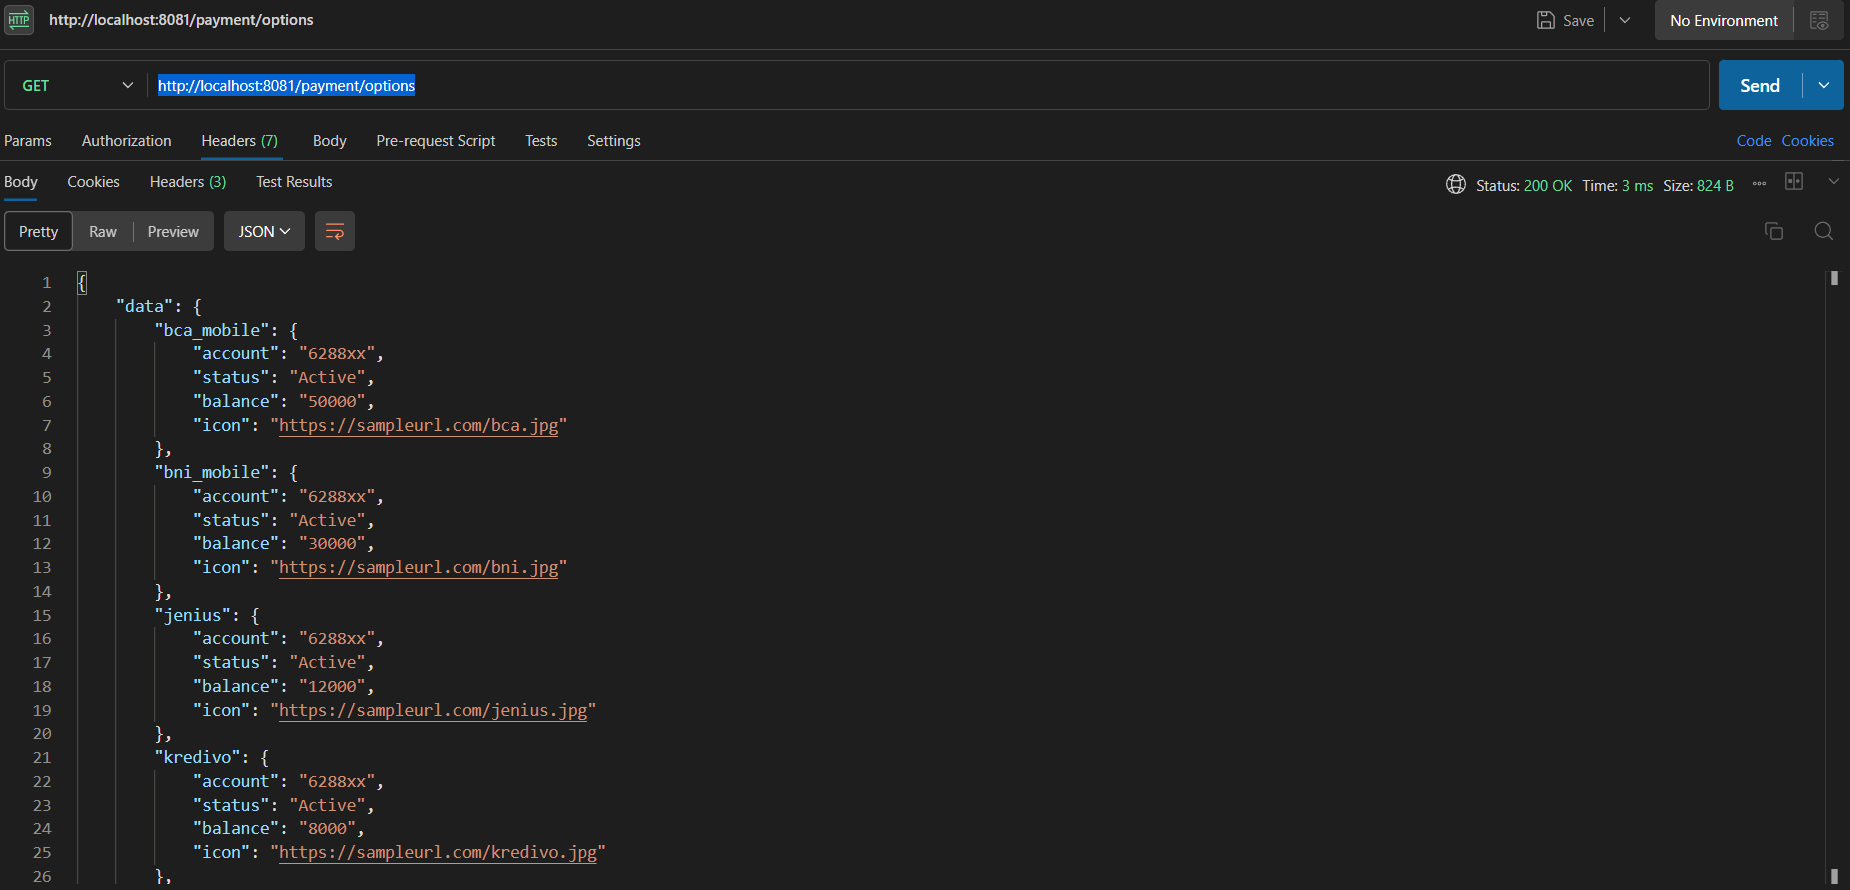
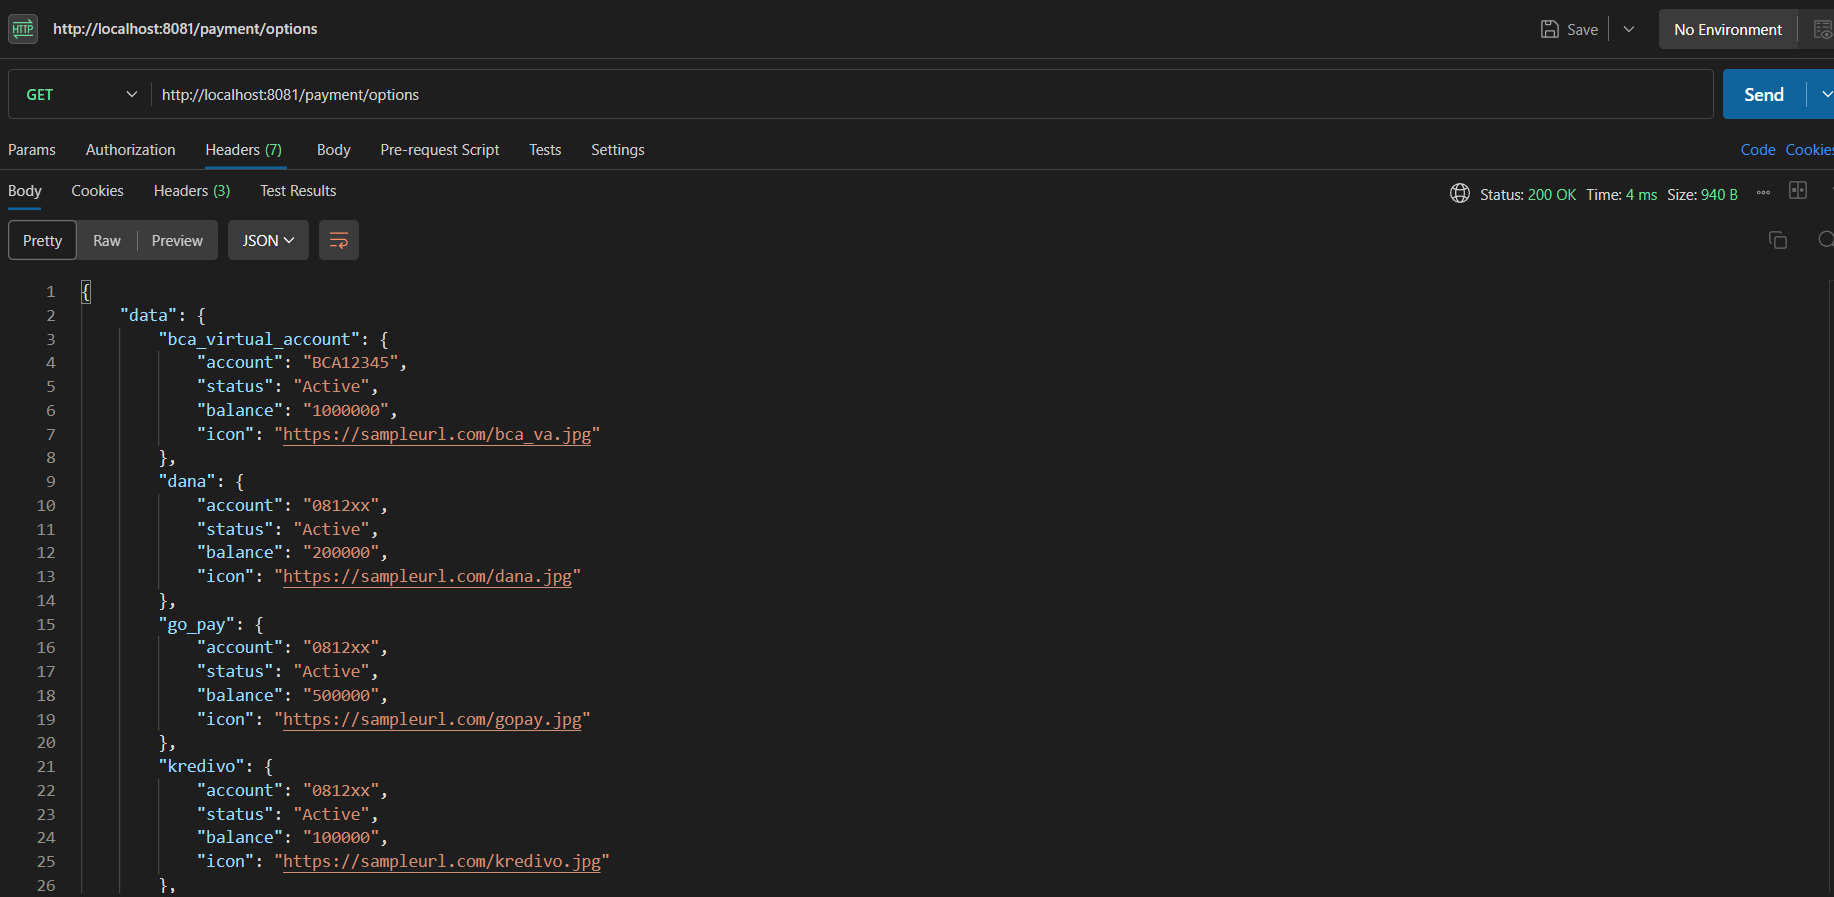
first commit

diff --git a/internal/repository/payment_repository_impl.go b/internal/repository/payment_repository_impl.go
@@ -11,57 +11,65 @@ func NewPaymentRepo() PaymentRepository {
 	return &paymentRepo{}
 }
 
-func (r *paymentRepo) CallBCAMobile() models.PaymentMethod {
-	// time.Sleep(2 * time.Second) // Simulate network delay
+func (r *paymentRepo) CallGoPay() models.PaymentMethod {
 	return models.PaymentMethod{
-		Account: "6288xx",
+		Account: "0812xx",
 		Status:  "Active",
-		Balance: "50000",
-		Icon:    "https://sampleurl.com/bca.jpg",
+		Balance: "500000", 
+		Icon:    "https://sampleurl.com/gopay.jpg",
+	}
+}
+
+func (r *paymentRepo) CallOVO() models.PaymentMethod {
+	return models.PaymentMethod{
+		Account: "0812xx",
+		Status:  "Active", 
+		Balance: "300000",
+		Icon:    "https://sampleurl.com/ovo.jpg",
+	}
+}
+
+func (r *paymentRepo) CallDANA() models.PaymentMethod {
+	return models.PaymentMethod{
+		Account: "0812xx",
+		Status:  "Active",
+		Balance: "200000", 
+		Icon:    "https://sampleurl.com/dana.jpg",
 	}
 }
 
 func (r *paymentRepo) CallLinkAja() models.PaymentMethod {
 	return models.PaymentMethod{
-		Account: "6288xx",
-		Status:  "Active",
-		Balance: "20000",
+		Account: "0812xx", 
+		Status:  "Active", 
+		Balance: "150000", 
 		Icon:    "https://sampleurl.com/linkaja.jpg",
-	}
-}
-
-func (r *paymentRepo) CallBNIMobile() models.PaymentMethod {
-	return models.PaymentMethod{
-		Account: "6288xx",
-		Status:  "Active",
-		Balance: "30000",
-		Icon:    "https://sampleurl.com/bni.jpg",
-	}
-}
-
-func (r *paymentRepo) CallMandiriOnline() models.PaymentMethod {
-	return models.PaymentMethod{
-		Account: "6288xx",
-		Status:  "Active",
-		Balance: "45000",
-		Icon:    "https://sampleurl.com/mandiri.jpg",
 	}
 }
 
 func (r *paymentRepo) CallKredivo() models.PaymentMethod {
 	return models.PaymentMethod{
-		Account: "6288xx",
-		Status:  "Active",
-		Balance: "8000",
+		Account: "0812xx",
+		Status:  "Active", 
+		Balance: "100000",   
 		Icon:    "https://sampleurl.com/kredivo.jpg",
 	}
 }
 
-func (r *paymentRepo) CallJenius() models.PaymentMethod {
+func (r *paymentRepo) CallShopeePay() models.PaymentMethod {
 	return models.PaymentMethod{
-		Account: "6288xx",
-		Status:  "Active",
-		Balance: "12000",
-		Icon:    "https://sampleurl.com/jenius.jpg",
+		Account: "0812xx",  
+		Status:  "Active",  
+		Balance: "250000",  
+		Icon:    "https://sampleurl.com/shopeepay.jpg", 
+	}
+}
+
+func (r *paymentRepo) CallVirtualAccountBCA() models.PaymentMethod {
+	return models.PaymentMethod{
+		Account: "BCA12345", 
+		Status:  "Active", 
+		Balance: "1000000", 
+		Icon:    "https://sampleurl.com/bca_va.jpg",
 	}
 }

diff --git a/internal/usecase/payment_usecase_impl.go b/internal/usecase/payment_usecase_impl.go
@@ -15,14 +15,15 @@ func NewPaymentUsecase(r repository.PaymentRepository) PaymentUsecase {
 }
 
 func (u *paymentUsecase) GetPaymentOptions() (map[string]models.PaymentMethod, error) {
-		result := make(map[string]models.PaymentMethod)
-		result["bca_mobile"] = u.repo.CallBCAMobile()
-		result["linkaja"] = u.repo.CallLinkAja()
-		result["bni_mobile"] = u.repo.CallBNIMobile()
-		result["mandiri_online"] = u.repo.CallMandiriOnline()
-		result["kredivo"] = u.repo.CallKredivo()
-		result["jenius"] = u.repo.CallJenius()
-		return result, nil
+	result := make(map[string]models.PaymentMethod)
+	result["go_pay"] = u.repo.CallGoPay()         
+	result["ovo"] = u.repo.CallOVO()            
+	result["dana"] = u.repo.CallDANA()           
+	result["linkaja"] = u.repo.CallLinkAja()     
+	result["kredivo"] = u.repo.CallKredivo()     
+	result["shopeepay"] = u.repo.CallShopeePay() 
+	result["bca_virtual_account"] = u.repo.CallVirtualAccountBCA() 
+	return result, nil
 }
 
 func (u *paymentUsecase) GetPaymentOptions22() (map[string]models.PaymentMethod, error) {
@@ -30,47 +31,54 @@ func (u *paymentUsecase) GetPaymentOptions22() (map[string]models.PaymentMethod,
 	result := make(map[string]models.PaymentMethod)
 	mu := sync.Mutex{}
 
-	wg.Add(6)
+	wg.Add(7)
 
 	go func() {
 		defer wg.Done()
 		mu.Lock()
-		result["bca_mobile"] = u.repo.CallBCAMobile()
+		result["go_pay"] = u.repo.CallGoPay()         
 		mu.Unlock()
 	}()
 
 	go func() {
 		defer wg.Done()
 		mu.Lock()
-		result["linkaja"] = u.repo.CallLinkAja()
+		result["ovo"] = u.repo.CallOVO()             
 		mu.Unlock()
 	}()
 
 	go func() {
 		defer wg.Done()
 		mu.Lock()
-		result["bni_mobile"] = u.repo.CallBNIMobile()
+		result["dana"] = u.repo.CallDANA()           
 		mu.Unlock()
 	}()
 
 	go func() {
 		defer wg.Done()
 		mu.Lock()
-		result["mandiri_online"] = u.repo.CallMandiriOnline()
+		result["linkaja"] = u.repo.CallLinkAja()     
 		mu.Unlock()
 	}()
 
 	go func() {
 		defer wg.Done()
 		mu.Lock()
-		result["kredivo"] = u.repo.CallKredivo()
+		result["kredivo"] = u.repo.CallKredivo()     
 		mu.Unlock()
 	}()
 
 	go func() {
 		defer wg.Done()
 		mu.Lock()
-		result["jenius"] = u.repo.CallJenius()
+		result["shopeepay"] = u.repo.CallShopeePay() 
+		mu.Unlock()
+	}()
+
+	go func() {
+		defer wg.Done()
+		mu.Lock()
+		result["bca_virtual_account"] = u.repo.CallVirtualAccountBCA()
 		mu.Unlock()
 	}()
 

diff --git a/internal/repository/payment_repository.go b/internal/repository/payment_repository.go
@@ -3,10 +3,11 @@ package repository
 import "payment-options/internal/models"
 
 type PaymentRepository interface {
-	CallBCAMobile() models.PaymentMethod
+	CallGoPay() models.PaymentMethod
+	CallOVO() models.PaymentMethod
+	CallDANA() models.PaymentMethod
 	CallLinkAja() models.PaymentMethod
-	CallBNIMobile() models.PaymentMethod
-	CallMandiriOnline() models.PaymentMethod
 	CallKredivo() models.PaymentMethod
-	CallJenius() models.PaymentMethod
+	CallShopeePay() models.PaymentMethod
+	CallVirtualAccountBCA() models.PaymentMethod // Add this method here
 }

diff --git a/README.md b/README.md
@@ -3,8 +3,10 @@
 A simple Go web service to simulate multiple payment methods for implementing goroutine-based parallel processing.
 
 ## Clone Repository
+```bash
 git clone https://github.com/IsmalPratama/payment-options.git
 cd payment-options
+```
 
 ## Run the App
 ```bash
